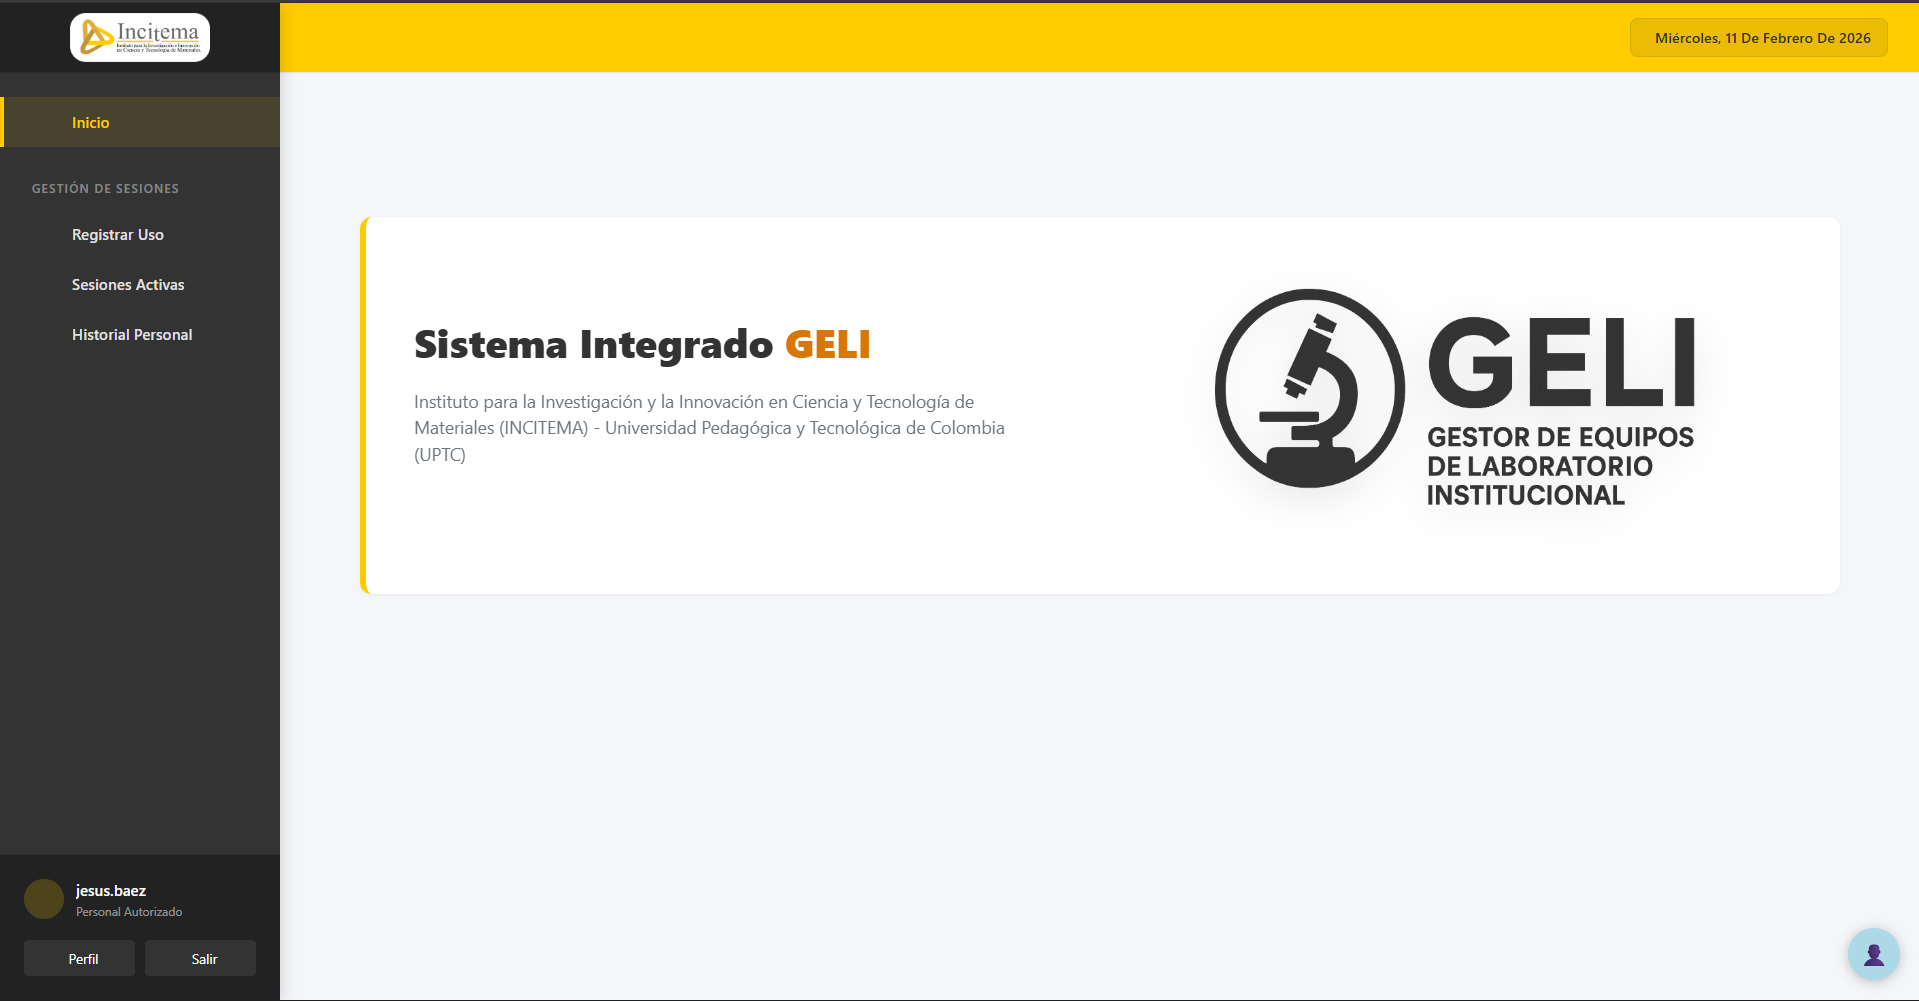
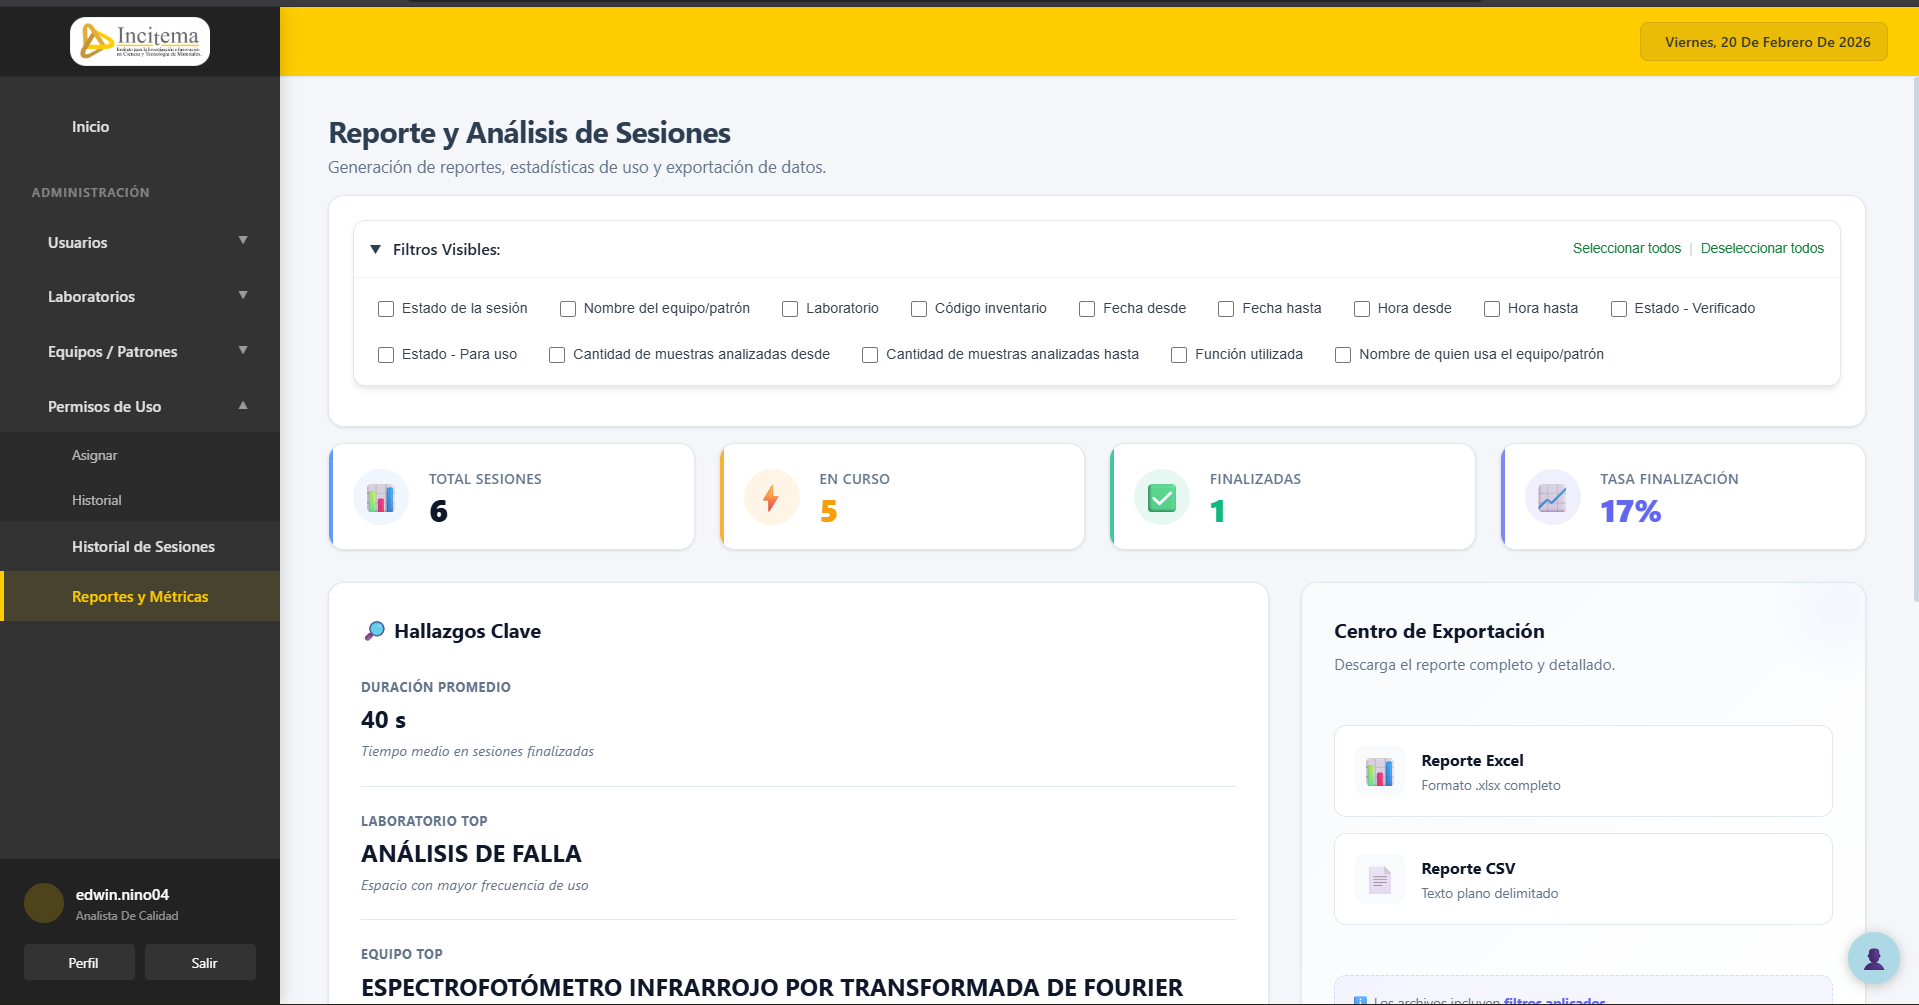
feat: Implement interactive book shelf component for projects and add about section to home page.

diff --git a/src/app/shared/components/book-shelf/book-shelf.component.ts b/src/app/shared/components/book-shelf/book-shelf.component.ts
@@ -1,4 +1,4 @@
-import { Component, Input, OnInit, Renderer2, inject } from '@angular/core';
+import { Component, Input, OnInit, Renderer2, inject, HostListener } from '@angular/core';
 import { CommonModule, DOCUMENT } from '@angular/common';
 import { ProjectBook } from '../../models/project-book.model';
 
@@ -47,5 +47,48 @@ export class BookShelfComponent implements OnInit {
 
     closeImageView() {
         this.selectedImage = null;
+    }
+
+    get hasPreviousImage(): boolean {
+        if (!this.selectedBook || !this.selectedBook.galleryImages || !this.selectedImage) return false;
+        const index = this.selectedBook.galleryImages.indexOf(this.selectedImage);
+        return index > 0;
+    }
+
+    get hasNextImage(): boolean {
+        if (!this.selectedBook || !this.selectedBook.galleryImages || !this.selectedImage) return false;
+        const index = this.selectedBook.galleryImages.indexOf(this.selectedImage);
+        return index !== -1 && index < this.selectedBook.galleryImages.length - 1;
+    }
+
+    previousImage(event?: Event) {
+        if (event) event.stopPropagation();
+        if (this.hasPreviousImage) {
+            const index = this.selectedBook!.galleryImages!.indexOf(this.selectedImage!);
+            this.selectedImage = this.selectedBook!.galleryImages![index - 1];
+        }
+    }
+
+    nextImage(event?: Event) {
+        if (event) event.stopPropagation();
+        if (this.hasNextImage) {
+            const index = this.selectedBook!.galleryImages!.indexOf(this.selectedImage!);
+            this.selectedImage = this.selectedBook!.galleryImages![index + 1];
+        }
+    }
+
+    @HostListener('window:keydown', ['$event'])
+    handleKeyDown(event: KeyboardEvent) {
+        if (this.selectedImage) {
+            if (event.key === 'ArrowLeft') {
+                this.previousImage();
+            } else if (event.key === 'ArrowRight') {
+                this.nextImage();
+            } else if (event.key === 'Escape') {
+                this.closeImageView();
+            }
+        } else if (this.selectedBook && event.key === 'Escape') {
+            this.closeInspection();
+        }
     }
 }

diff --git a/src/app/features/projects/projects.ts b/src/app/features/projects/projects.ts
@@ -33,13 +33,13 @@ export class Projects {
       technologies: ['Oracle', 'Spring Boot', 'Keycloak', 'Angular'],
       spineColor: '#af960bff',
       spineTextColor: '#ffffffff',
-      demoUrl: '#',
-      repoUrl: '#',
       galleryImages: [
         'geli/1.png',
         'geli/2.png',
         'geli/3.png',
-        'geli/4.png'
+        'geli/4.png',
+        'geli/5.png',
+        'geli/6.png'
       ]
     },
     {
@@ -50,11 +50,14 @@ export class Projects {
       technologies: ['C++17', 'JUCE 8', 'SQLite3', 'CMake'],
       spineColor: '#E67E22',
       spineTextColor: '#ECF0F1',
-      demoUrl: '#',
       repoUrl: 'https://github.com/juanitomanoplateada/raaadio',
       galleryImages: [
         'raaadio/1.png',
-        'raaadio/2.png'
+        'raaadio/2.png',
+        'raaadio/3.png',
+        'raaadio/4.png',
+        'raaadio/5.png',
+        'raaadio/6.png'
       ]
     }
   ];

diff --git a/src/app/shared/components/book-shelf/book-shelf.component.scss b/src/app/shared/components/book-shelf/book-shelf.component.scss
@@ -596,3 +596,49 @@
         transform: scale(1.1);
     }
 }
+
+.nav-btn {
+    position: absolute;
+    top: 50%;
+    transform: translateY(-50%);
+    background: transparent;
+    border: none;
+    color: rgba(255, 255, 255, 0.7);
+    font-size: 4rem;
+    cursor: pointer;
+    z-index: 3001;
+    padding: 20px;
+    transition: all 0.2s;
+    user-select: none;
+    display: flex;
+    justify-content: center;
+    align-items: center;
+    width: 60px;
+    height: 80px;
+
+    &:hover {
+        color: white;
+        transform: translateY(-50%) scale(1.1);
+    }
+    
+    @media (max-width: 768px) {
+        font-size: 3rem;
+        padding: 10px;
+    }
+}
+
+.prev-btn {
+    left: 20px;
+    
+    @media (max-width: 768px) {
+        left: 5px;
+    }
+}
+
+.next-btn {
+    right: 20px;
+    
+    @media (max-width: 768px) {
+        right: 5px;
+    }
+}

diff --git a/src/app/shared/components/book-shelf/book-shelf.component.html b/src/app/shared/components/book-shelf/book-shelf.component.html
@@ -98,6 +98,15 @@
         @if (selectedImage) {
         <div class="image-viewer-backdrop" tabindex="0" (click)="closeImageView()" (keydown.enter)="closeImageView()">
             <button class="close-viewer-btn" (click)="closeImageView()">×</button>
+
+            @if (hasPreviousImage) {
+            <button class="nav-btn prev-btn" (click)="previousImage($event)">&#10094;</button>
+            }
+
+            @if (hasNextImage) {
+            <button class="nav-btn next-btn" (click)="nextImage($event)">&#10095;</button>
+            }
+
             <div class="image-viewer-content" (click)="$event.stopPropagation()"
                 (keydown.enter)="$event.stopPropagation()" tabindex="0">
                 <img [src]="selectedImage" alt="Full Screen Preview">

diff --git a/src/app/features/home/home.html b/src/app/features/home/home.html
@@ -6,7 +6,7 @@
         </div>
         <div class="text-content">
             <h2 class="section-title">Portafolio de Servicios</h2>
-            <h3 class="role-title">Software Developer Full Stack</h3>
+            <h3 class="role-title">Full Stack Developer</h3>
             <p class="bio-text">
                 Ingeniero de Sistemas y Computación, con experiencia sólida en desarrollo web utilizando Java (Spring
                 Boot) y el ecosistema JavaScript, especialmente Angular, orientado al diseño de soluciones escalables

diff --git a/src/app/features/experience/experience.ts b/src/app/features/experience/experience.ts
@@ -23,7 +23,7 @@ export class Experience {
         {
             id: 'current',
             year: '2026 - Actualidad',
-            title: 'Software Developer ',
+            title: 'Full Stack Developer ',
             company: 'DTIC (UPTC)',
             description: 'Desarrollo y mantenimiento de sistemas de información institucionales. Especialización en Angular, Spring Boot y tecnologías relacionadas.',
             side: 'left'
